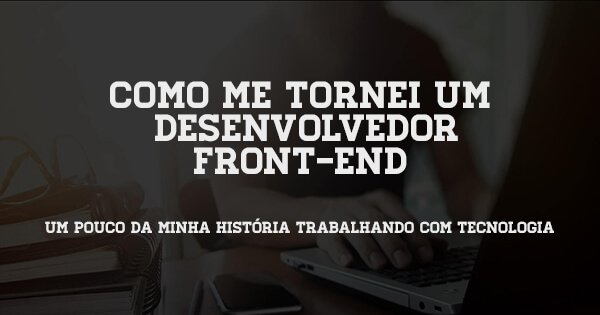
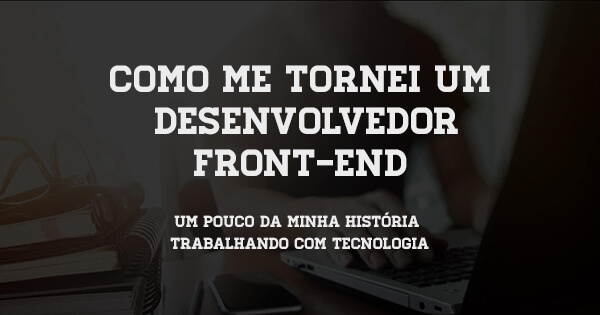
Atualizando a Imagem de Apresentação e o About

Changed region(s): [[0.18, 0.2, 0.84, 0.5714], [0.06, 0.6571, 0.93, 0.8]]

diff --git a/_site/about/index.html b/_site/about/index.html
@@ -1,1 +1,1 @@
-<!DOCTYPE html><html lang="pt-br" itemscope itemtype="http://schema.org/WebPage" > <head><meta charset="utf-8"><meta http-equiv="X-UA-Compatible" content="IE=edge"><meta name="viewport" content="width=device-width, initial-scale=1"><title>Sobre mim</title><meta name="description" content="Minha história como Desenvolvedor Front-end"> <meta name="google-site-verification" content="8kDtWUmUQEh7QXoj_shRaxcgYAVpHs_YQ7TeniN0kmI" /><link rel="author" href="https://plus.google.com/+MatheusBarone1?rel=author"><link rel="alternate" href="http://localhost:4000" hreflang="pt-br"/> <meta name="twitter:card" content="summary_large_image"><meta name="twitter:site" content="@matheusvbarone"><meta name="twitter:title" content="Sobre mim"><meta name="twitter:description" content="Minha história como Desenvolvedor Front-end"><meta property="twitter:image:src" content="http://localhost:4000/assets/dist/images/site-image.jpg"> <meta property="fb:app_id" content="2011413979095249" /><meta property="og:url" content="http://localhost:4000/about/"><meta property="og:title" content="Sobre mim"><meta property="og:image" content="http://localhost:4000/assets/dist/images/site-image.jpg"><meta property="og:description" content="Minha história como Desenvolvedor Front-end"><meta property="og:site_name" content="Matheus Barone | Desenvolvedor Front End"> <meta itemprop="name" content="Sobre mim"/><meta itemprop="description" content="Minha história como Desenvolvedor Front-end"><meta itemprop="image" content="http://localhost:4000/assets/dist/images/site-image.jpg"/><link rel="apple-touch-icon-precomposed" sizes="57x57" href="http://localhost:4000/assets/dist/images/icons/apple-touch-icon-57x57.png" /><link rel="apple-touch-icon-precomposed" sizes="114x114" href="http://localhost:4000/assets/dist/images/icons/apple-touch-icon-114x114.png" /><link rel="apple-touch-icon-precomposed" sizes="72x72" href="http://localhost:4000/assets/dist/images/icons/apple-touch-icon-72x72.png" /><link rel="apple-touch-icon-precomposed" sizes="144x144" href="http://localhost:4000/assets/dist/images/icons/apple-touch-icon-144x144.png" /><link rel="apple-touch-icon-precomposed" sizes="60x60" href="http://localhost:4000/assets/dist/images/icons/apple-touch-icon-60x60.png" /><link rel="apple-touch-icon-precomposed" sizes="120x120" href="http://localhost:4000/assets/dist/images/icons/apple-touch-icon-120x120.png" /><link rel="apple-touch-icon-precomposed" sizes="76x76" href="http://localhost:4000/assets/dist/images/icons/apple-touch-icon-76x76.png" /><link rel="apple-touch-icon-precomposed" sizes="152x152" href="http://localhost:4000/assets/dist/images/icons/apple-touch-icon-152x152.png" /><link rel="icon" type="image/png" href="http://localhost:4000/assets/dist/images/icons/favicon-196x196.png" sizes="196x196" /><link rel="icon" type="image/png" href="http://localhost:4000/assets/dist/images/icons/favicon-96x96.png" sizes="96x96" /><link rel="icon" type="image/png" href="http://localhost:4000/assets/dist/images/icons/favicon-32x32.png" sizes="32x32" /><link rel="icon" type="image/png" href="http://localhost:4000/assets/dist/images/icons/favicon-16x16.png" sizes="16x16" /><link rel="icon" type="image/png" href="http://localhost:4000/assets/dist/images/icons/favicon-128.png" sizes="128x128" /> <meta name="application-name" content="Matheus Barone | Desenvolvedor Front-End"/><meta name="msapplication-TileColor" content="#FFFFFF" /><meta name="msapplication-TileImage" content="http://localhost:4000/assets/dist/images/icons/mstile-144x144.png" /><meta name="msapplication-square70x70logo" content="http://localhost:4000/assets/dist/images/icons/mstile-70x70.png" /><meta name="msapplication-square150x150logo" content="http://localhost:4000/assets/dist/images/icons/mstile-150x150.png" /><meta name="msapplication-wide310x150logo" content="http://localhost:4000/assets/dist/images/icons/mstile-310x150.png" /><meta name="msapplication-square310x310logo" content="http://localhost:4000/assets/dist/images/icons/mstile-310x310.png" /> <meta name="theme-color" content="#cd2b46">  <script src="https://use.fontawesome.com/f46f00c11e.js"></script><link rel="stylesheet" href="/assets/dist/css/style.min.css"><link rel="canonical" href="http://localhost:4000/about/"><link rel="alternate" type="application/rss+xml" title="Matheus Barone | Desenvolvedor Front End" href="http://localhost:4000/feed.xml" />  <script> !function(f,b,e,v,n,t,s) {if(f.fbq)return;n=f.fbq=function(){n.callMethod? n.callMethod.apply(n,arguments):n.queue.push(arguments)}; if(!f._fbq)f._fbq=n;n.push=n;n.loaded=!0;n.version='2.0'; n.queue=[];t=b.createElement(e);t.async=!0; t.src=v;s=b.getElementsByTagName(e)[0]; s.parentNode.insertBefore(t,s)}(window, document,'script', 'https://connect.facebook.net/en_US/fbevents.js'); fbq('init', '190779964790158'); fbq('track', 'PageView'); </script> <noscript><img height="1" width="1" style="display:none" src="https://www.facebook.com/tr?id=190779964790158&ev=PageView&noscript=1" /></noscript> </head><body>   <script> window.fbAsyncInit = function () { FB.init({ appId: '2011413979095249', xfbml: true, version: 'v2.10' }); FB.AppEvents.logPageView(); }; (function (d, s, id) { var js, fjs = d.getElementsByTagName(s)[0]; if (d.getElementById(id)) { return; } js = d.createElement(s); js.id = id; js.src = "//connect.facebook.net/en_US/sdk.js"; fjs.parentNode.insertBefore(js, fjs); }(document, 'script', 'facebook-jssdk')); </script>   <script async src="https://www.googletagmanager.com/gtag/js?id=UA-78614910-2"></script> <script> window.dataLayer = window.dataLayer || []; function gtag(){dataLayer.push(arguments)}; gtag('js', new Date()); gtag('config', 'UA-78614910-2'); </script> <script> window.fbAsyncInit = function() { FB.init({ appId : '2011413979095249', xfbml : true, version : 'v2.10' }); FB.AppEvents.logPageView(); }; (function(d, s, id){ var js, fjs = d.getElementsByTagName(s)[0]; if (d.getElementById(id)) {return;} js = d.createElement(s); js.id = id; js.src = "//connect.facebook.net/en_US/sdk.js"; fjs.parentNode.insertBefore(js, fjs); }(document, 'script', 'facebook-jssdk')); </script>  <div id="top"></div><svg xmlns="http://www.w3.org/2000/svg" xmlns:xlink="http://www.w3.org/1999/xlink" display="none" version="1.1"> <defs> <symbol id="icon-code" viewBox="0 0 200 200"><path d="M116.3,30.2c-4.8,0.1-9,3.4-10.4,8L72.8,148.7c-1.8,5.9,1.6,12,7.4,13.8c5.9,1.8,12-1.6,13.8-7.4c0,0,0,0,0,0 l33.1-110.5c1.8-5.8-1.4-12-7.3-13.8C118.8,30.4,117.5,30.2,116.3,30.2z M56,44c-2.9,0-5.7,1.1-7.8,3.1L4,88.6 c-4.5,4.2-4.7,11.2-0.5,15.6c0.2,0.2,0.3,0.4,0.5,0.5l44.2,41.4c4.5,4.2,11.5,4,15.7-0.5c4.2-4.5,4-11.5-0.5-15.7L27.8,96.7 l35.6-33.4c4.5-4.1,4.9-11.1,0.8-15.6C62.1,45.4,59.1,44,56,44L56,44z M143.7,44c-6.1,0.2-10.9,5.3-10.7,11.4c0.1,3,1.4,5.9,3.6,7.9 l35.6,33.4L136.6,130c-4.5,4.2-4.7,11.2-0.5,15.7c4.2,4.5,11.2,4.7,15.7,0.5l44.2-41.4c4.5-4.2,4.7-11.2,0.5-15.6 c-0.2-0.2-0.3-0.4-0.5-0.5l-44.2-41.4C149.6,45,146.7,43.9,143.7,44L143.7,44z"/> </symbol> <symbol id="icon-uxui" viewBox="0 0 200 200"><path d="M172.6,53.41a5,5,0,0,0-1.45-3.53L150,28.73a5,5,0,0,0-7.06,0L2,169.69a5,5,0,0,0,0,7.06L23.12,197.9a5,5,0,0,0,7.06,0l141-141A5,5,0,0,0,172.6,53.41Zm-45.4,33.4L113.11,72.72l33.4-33.4,14.09,14.09Z" transform="translate(-0.5)"/><path d="M179.94,39.87a19.91,19.91,0,0,1,19.94-19.94A19.91,19.91,0,0,1,179.94,0,19.91,19.91,0,0,1,160,19.94,19.91,19.91,0,0,1,179.94,39.87Z" transform="translate(-0.5)"/><path d="M110.16,39.87A19.91,19.91,0,0,1,130.1,19.94,19.91,19.91,0,0,1,110.16,0,19.91,19.91,0,0,1,90.23,19.94,19.94,19.94,0,0,1,110.16,39.87Z" transform="translate(-0.5)"/><path d="M179.94,69.77A19.91,19.91,0,0,1,160,89.71a19.91,19.91,0,0,1,19.94,19.94,19.91,19.91,0,0,1,19.94-19.94A19.91,19.91,0,0,1,179.94,69.77Z" transform="translate(-0.5)"/> </symbol> <symbol id="icon-ideas" viewBox="0 0 200 200"><path d="M153.14,61.72c-.27-.47-.56-.89-1.13-1.72A63.43,63.43,0,0,0,100.4,32.91a62.28,62.28,0,0,0-34.49,11c-1,.64-2,1.36-3.37,2.42-1,.76-2,1.6-2.91,2.39l-.57.48a36.18,36.18,0,0,0-3.35,3.28,46,46,0,0,0-3.61,4.09c-.35.42-.7.85-1.18,1.48s-.74,1.05-1,1.36a5.94,5.94,0,0,0-.71,1,13.28,13.28,0,0,0-.87,1.3c-6.75,10.28-10.1,21.07-9.95,32a53.65,53.65,0,0,0,6.05,25c.11.26.23.53.47,1a82.72,82.72,0,0,0,5.67,9.7l.9,1.28c2.2,3.25,4.34,6.43,6.17,9.47.47,1.16,1,2.27,1.48,3.41a48.49,48.49,0,0,1,2.42,6.3,31.76,31.76,0,0,1,1.18,7.76l-.41,7.05,78.69-.3-1.81-7.15a16,16,0,0,1,.3-4,37.66,37.66,0,0,1,1.62-6.5c.36-1.09.78-2.16,1-2.73l.4-.64a14.56,14.56,0,0,0,1.54-3.35c1.79-3.08,3.79-6.1,6-9.45l1.08-1.63a86.48,86.48,0,0,0,6.1-10.79A53.7,53.7,0,0,0,163,92.93V92.1A55.84,55.84,0,0,0,153.14,61.72ZM58,67.39l.42-.6.25-.41c.5-.64,1-1.3,1.3-1.79l1.24-1.52a34.66,34.66,0,0,1,2.63-2.95,29,29,0,0,1,2.52-2.46l.6-.51c.75-.65,1.51-1.31,2.81-2.29.73-.55,1.45-1.1,2.34-1.67a51.19,51.19,0,0,1,28.36-9.11c16.57-.06,32.8,8.48,42.72,22.78l.49.76c5.25,7.86,8,16.15,8.14,24.61v.89a43,43,0,0,1-4.59,20.16,76.2,76.2,0,0,1-5.35,9.46l-1.05,1.59c-2.44,3.65-4.62,6.94-6.77,10.74l-.41,1.11a9.79,9.79,0,0,1-.77,1.58,7,7,0,0,0-.82,1.49c-.52,1.27-1,2.6-1.47,3.9a48.29,48.29,0,0,0-2.07,8.39c-.09.58-.17,1.14-.24,1.7l-54.58.21a43,43,0,0,0-1.31-6.61,58.81,58.81,0,0,0-3-7.82c-.48-1.06-1-2.13-1.41-3.26L67.6,135c-2.18-3.71-4.47-7.13-6.89-10.7l-.9-1.26a73.05,73.05,0,0,1-5.1-8.82l-.39-.85A42.39,42.39,0,0,1,49.6,93.68C49.47,84.9,52.27,76.08,58,67.39Zm-6,47.14Z" transform="translate(-10.07 0)"/><path d="M124.45,93.52,95.79,140.93a.67.67,0,0,1-1.24-.44L99.1,109a.68.68,0,0,0-.66-.8l-20.84.08a.67.67,0,0,1-.58-1l28.66-47.41a.67.67,0,0,1,1.24.44l-4.56,31.53a.65.65,0,0,0,.66.77l20.84-.08A.7.7,0,0,1,124.45,93.52Z" transform="translate(-10.07 0)"/><path d="M61.26,175v0a27.3,27.3,0,0,0,0,5.32c1.18,7.76,9.44,8.18,12.13,8.35,1.38,0,2.76.09,4.15.09,3.76,0,4.53.37,5.84,2.46,3.28,5.2,10.28,8.39,18.34,8.36,7.76,0,14.19-3,17.44-8,1.6-2.49,2.6-3,6.48-3h1.84c3,0,9,0,12.35-4.14,2.79-3.44,2-7.18,1.3-9.79Z" transform="translate(-10.07 0)"/><path d="M30.87,72.09A10.59,10.59,0,0,1,20.75,79.6a10.31,10.31,0,0,1-3.17-.48,10.64,10.64,0,1,1,13.29-7Z" transform="translate(-10.07 0)"/><path d="M57.32,35.28A10.46,10.46,0,0,1,51,37.39a10.65,10.65,0,0,1-6.39-19.21,10.43,10.43,0,0,1,6.15-2,10.82,10.82,0,0,1,8.74,4.18A10.65,10.65,0,0,1,57.32,35.28Z" transform="translate(-10.07 0)"/><path d="M111,10.6a10.64,10.64,0,1,1-21.28.11A10.6,10.6,0,0,1,100.32,0,10.67,10.67,0,0,1,111,10.6Z" transform="translate(-10.07 0)"/><path d="M158.32,33.15a10.66,10.66,0,0,1-8.57,4.41,10.66,10.66,0,0,1-8.65-16.9,10.81,10.81,0,0,1,8.74-4.27A10.17,10.17,0,0,1,156,18.3a10.66,10.66,0,0,1,2.36,14.85Z" transform="translate(-10.07 0)"/><path d="M183.09,79.33a10.65,10.65,0,0,1-13.38-6.9,10.64,10.64,0,1,1,13.38,6.9Z" transform="translate(-10.07 0)"/> </symbol> </defs> </svg><header class="mast-header "><div class="container"> <nav class="level is-mobile"> <div class="level-left"> <a href="http://localhost:4000/" class="level-item" title="© 2017 Matheus Barone - Desenvolvedor Front-end | Todos os Direitos Reservados"> <svg id="logo-simple" class="logo-simple" data-name="logo-simple" xmlns="http://www.w3.org/2000/svg" width="35" height="35" viewBox="0 0 153.91 153.91"> <rect class="logo-simple-1" x="1" y="1" width="151.91" height="151.91" rx="4.23" ry="4.23"/> <g><polygon class="logo-simple-2" points="83.29 56.08 76.89 56.08 76.89 97.83 83.29 97.83 83.84 97.83 90.24 97.83 90.24 56.08 83.84 56.08 83.29 56.08"/><path class="logo-simple-2" d="M157.29,232.19a6.26,6.26,0,0,0-4.42-10.69H139V234h13.92A6,6,0,0,0,157.29,232.19Z" transform="translate(-34.8 -165.42)"/><path class="logo-simple-2" d="M152.87,247.94H139v15.31h13.92a7.65,7.65,0,1,0,0-15.31Z" transform="translate(-34.8 -165.42)"/><path class="logo-simple-3" d="M172.85,247.39a20.55,20.55,0,0,0-4.47-6.71,21.41,21.41,0,0,0,3.43-6,20.14,20.14,0,0,0-.35-14.81,20.26,20.26,0,0,0-10.73-10.74,19.59,19.59,0,0,0-7.85-1.59H97.57L83.85,229.35,70.13,207.58H49.06V221.5h7v41.75h-7v13.92H76.89V263.25h-7V233.43l13.92,22,13.92-22v29.82h-7v13.92h62.06a21,21,0,0,0,8.4-1.69A21.63,21.63,0,0,0,172.75,264a21.83,21.83,0,0,0,.1-16.6ZM139,221.5h13.92a6.26,6.26,0,0,1,0,12.52H139ZM125,263.25H111.68V221.5H125ZM158.29,261a7.38,7.38,0,0,1-5.42,2.24H139V247.94h13.92A7.66,7.66,0,0,1,158.29,261Z" transform="translate(-34.8 -165.42)"/> </g> </svg> </a></div><nav class="menu"><ul class="level-right"><li class="level-item menu-item"><a href="http://localhost:4000" class="menu-link" title="Home">Home</a></li><li class="level-item menu-item"><a href="http://localhost:4000/about" class="menu-link" title="Sobre mim">Sobre mim</a></li><li class="level-item menu-item"><a href="http://localhost:4000/#contact" class="menu-link" title="Contato">Contato</a></li><li class="level-item menu-item"><a href="http://localhost:4000/blog" class="button is-primary menu-link" title="Blog">Blog</a></li></ul></nav></nav></div></header>  <section class="hero hero-default has-header" ><div class="panel hero-default-body hero-body" data-section-name="home"><h1 class="title" itemprop="name">Sobre mim</h1><p itemprop="description" class="subtitle">Minha história como Desenvolvedor Front-end</p></div></section>  <div class="offset default-offset is-about"> <div class="container p-t-30 main-container"> <nav class="breadcrumb is-small is-about" aria-label="breadcrumbs"><ul><li><a href="/"><span class="icon is-small"><i class="fa fa-home"></i></span><span>Home</span></a></li><li class="is-active"><a href="#" aria-current="page"><span class="icon is-small"><i class="fa fa-user" aria-hidden="true"></i></span><span>Sobre mim</span></a></li></ul></nav> <div class="content about"> <p class="p-t-20">Meu nome é Matheus Barone, sou de Santos/SP e trabalho como desenvolvedor Front-end na <a href="http://www.uol.com.br" title="UOL">UOL</a>.</p><p>Em 2013 me formei em <a href="http://cursos.unisanta.br/producaomultimidia/" title="Produção Multimídia">Produção Multimídia</a> pela <a href="http://www.unisanta.br/" title="Universidade Santa Cecília">Universidade Santa Cecília</a>. Esse curso abordava, além de web, design gráfico e fotografia. Isso me deu uma visão ampla da área, e logo no primeiro semestre já havia conseguido um estágio.</p><p>Desde então tenho na bagagem a passagem por agências digitais, agência de publicidade, além de morar um ano nos Estados Unidos.</p><p>Com uma rotina de estudos diária, busco sempre aperfeiçoar e expandir meu conhecimento. Meu foco principal é o cliente, dou o meu máximo para solucionar os problemas apresentados de forma rápida e eficaz.</p><p>Gosto de trabalhar em equipe, compartilhar conhecimento e ensinar as pessoas. Se precisar, é só <a href="http://localhost:4000/#contact" title="Contato">me contatar</a>. Ficarei feliz em ajudar!</p><h2 class="wow slideInUp animated has-text-centered has-text-left-tablet" data-wow-duration="0.4s" data-wow-delay="0.2s">Habilidades</h2><ul class="wow slideInUp animated" data-wow-duration="0.4s" data-wow-delay="0.2s"><li><h3>HTML</h3></li><li><h3>CSS (SASS)</h3></li><li><h3>CSS Frameworks (Bulma, Bootstrap)</h3></li><li><h3>Javascript (Design Patterns)</h3></li><li><h3>Jquery</h3></li><li><h3>Git</h3></li><li><h3>Jekyll</h3></li><li><h3>Taskrunners (Gulp, Npm)</h3></li><li><h3>NodeJS</h3></li><li><h3>Photoshop</h3></li><li><h3>Illustrator</h3></li><li><h3>Scrum</h3></li><li><h3>UX/UI</h3></li><li><h3>Wordpress</h3></li><li><h3>Inglês Fluente</h3></li></ul><h2 class="wow slideInUp animated has-text-centered has-text-left-tablet" data-wow-duration="0.4s" data-wow-delay="0.2s">Experiência</h2><ul class="wow slideInUp animated" data-wow-duration="0.4s" data-wow-delay="0.2s"><li><h3>UOL - Universo Online</h3><h4>Desenvolvedor Front-end</h4><p>Agosto 2017 - Atual</p></li><li><h3>KBR TEC - Soluções On-Line Ltda</h3><h4>Desenvolvedor Front-end</h4><p>Março 2015 - Abril 2016 / Abril 2017 - Agosto 2017</p></li><li><h3>DSPA - ideias, Planejamento e Design</h3><h4>Desenvolvedor Front-end</h4><p>Janeiro 2014 - Fevereiro 2015</p></li><li><h3>Triares - Desenvolvedor Front-end</h3><h4>Estágio</h4><p>Abril 2012 - Junho 2013</p></li></ul><h2 class="wow slideInUp animated has-text-centered has-text-left-tablet" data-wow-duration="0.4s" data-wow-delay="0.2s">Formação</h2><ul class="wow slideInUp animated" data-wow-duration="0.4s" data-wow-delay="0.2s"><li><h3>Produção Multímidia</h3><h4>Universidade Santa Cecília</h4><p>Janeiro 2012 - Dezembro 2013</p></li><li><h3>Web Apps Responsivas com JavaScript e jQuery</h3><h4>Caelum</h4><p>Setembro 2017 (32 horas/aula)</p></li><li><h3>Front End Development</h3><h4>FreeCodeCamp</h4><p>Agosto 2017</p></li></ul><h2 class="wow slideInUp animated has-text-centered has-text-left-tablet" data-wow-duration="0.4s" data-wow-delay="0.2s">Contato</h2><ul class="wow slideInUp animated" data-wow-duration="0.4s" data-wow-delay="0.2s"><li><h3><a href="https://www.facebook.com/matheusvbarone" title="Facebook">Facebook</a></h3></li><li><h3><a href="https://github.com/mathvbarone" title="Github">Github</a></h3></li><li><h3><a href="https://www.linkedin.com/in/matheusbarone/" title="Linkedin">Linkedin</a></h3></li><li><h3><a href="https://twitter.com/matheusvbarone" title="Twitter">Twitter</a></h3></li><li><h3><a href="mailto:matheusvbarone@gmail.com" title="Email">Email</a></h3></li></ul></div></div><footer class="footer"><div class="container"><div class="content has-text-centered"> <span class="footer-infos"> © 2017 Matheus Barone | Desenvolvedor Front-end<br> <span>Feito por mim (com a ajuda de algumas xícaras de café).</span> </span> <a class="footer-phone" href="tel:+5513981252789"><i class="fa-lg fa fa-mobile" aria-hidden="true"></i>(13) 98125-2789</a><ul class="redes"><li class="redes-item"> <a class="redes-link" href="https://www.facebook.com/matheusvbarone" target="_blank" title="Facebook"> <i class="fa fa-facebook" aria-hidden="true"></i> </a></li><li class="redes-item"> <a class="redes-link" href="https://github.com/mathvbarone" target="_blank" title="Github"> <i class="fa fa-github" aria-hidden="true"></i> </a></li><li class="redes-item"> <a class="redes-link" href="https://twitter.com/matheusvbarone" target="_blank" title="Twitter"> <i class="fa fa-twitter" aria-hidden="true"></i> </a></li><li class="redes-item"> <a class="redes-link" href="https://www.linkedin.com/in/matheusbarone/" target="_blank" title="Linkedin"> <i class="fa fa-linkedin" aria-hidden="true"></i> </a></li></ul></div></div></footer><script src="https://cdnjs.cloudflare.com/ajax/libs/wow/1.1.2/wow.min.js"></script> <script src="/assets/dist/js/main.min.js"></script> </div>  <a href="#top" class="up-arrow"> <i class="fa fa-chevron-up" aria-hidden="true"></i> </a> </body>
+<!DOCTYPE html><html lang="pt-br" itemscope itemtype="http://schema.org/WebPage" > <head><meta charset="utf-8"><meta http-equiv="X-UA-Compatible" content="IE=edge"><meta name="viewport" content="width=device-width, initial-scale=1"><title>Sobre mim</title><meta name="description" content="Minha história como Desenvolvedor Front-end"> <meta name="google-site-verification" content="8kDtWUmUQEh7QXoj_shRaxcgYAVpHs_YQ7TeniN0kmI" /><link rel="author" href="https://plus.google.com/+MatheusBarone1?rel=author"><link rel="alternate" href="http://localhost:4000" hreflang="pt-br"/> <meta name="twitter:card" content="summary_large_image"><meta name="twitter:site" content="@matheusvbarone"><meta name="twitter:title" content="Sobre mim"><meta name="twitter:description" content="Minha história como Desenvolvedor Front-end"><meta property="twitter:image:src" content="http://localhost:4000/assets/dist/images/site-image.jpg"> <meta property="fb:app_id" content="2011413979095249" /><meta property="og:url" content="http://localhost:4000/about/"><meta property="og:title" content="Sobre mim"><meta property="og:image" content="http://localhost:4000/assets/dist/images/site-image.jpg"><meta property="og:description" content="Minha história como Desenvolvedor Front-end"><meta property="og:site_name" content="Matheus Barone | Desenvolvedor Front End"> <meta itemprop="name" content="Sobre mim"/><meta itemprop="description" content="Minha história como Desenvolvedor Front-end"><meta itemprop="image" content="http://localhost:4000/assets/dist/images/site-image.jpg"/><link rel="apple-touch-icon-precomposed" sizes="57x57" href="http://localhost:4000/assets/dist/images/icons/apple-touch-icon-57x57.png" /><link rel="apple-touch-icon-precomposed" sizes="114x114" href="http://localhost:4000/assets/dist/images/icons/apple-touch-icon-114x114.png" /><link rel="apple-touch-icon-precomposed" sizes="72x72" href="http://localhost:4000/assets/dist/images/icons/apple-touch-icon-72x72.png" /><link rel="apple-touch-icon-precomposed" sizes="144x144" href="http://localhost:4000/assets/dist/images/icons/apple-touch-icon-144x144.png" /><link rel="apple-touch-icon-precomposed" sizes="60x60" href="http://localhost:4000/assets/dist/images/icons/apple-touch-icon-60x60.png" /><link rel="apple-touch-icon-precomposed" sizes="120x120" href="http://localhost:4000/assets/dist/images/icons/apple-touch-icon-120x120.png" /><link rel="apple-touch-icon-precomposed" sizes="76x76" href="http://localhost:4000/assets/dist/images/icons/apple-touch-icon-76x76.png" /><link rel="apple-touch-icon-precomposed" sizes="152x152" href="http://localhost:4000/assets/dist/images/icons/apple-touch-icon-152x152.png" /><link rel="icon" type="image/png" href="http://localhost:4000/assets/dist/images/icons/favicon-196x196.png" sizes="196x196" /><link rel="icon" type="image/png" href="http://localhost:4000/assets/dist/images/icons/favicon-96x96.png" sizes="96x96" /><link rel="icon" type="image/png" href="http://localhost:4000/assets/dist/images/icons/favicon-32x32.png" sizes="32x32" /><link rel="icon" type="image/png" href="http://localhost:4000/assets/dist/images/icons/favicon-16x16.png" sizes="16x16" /><link rel="icon" type="image/png" href="http://localhost:4000/assets/dist/images/icons/favicon-128.png" sizes="128x128" /> <meta name="application-name" content="Matheus Barone | Desenvolvedor Front-End"/><meta name="msapplication-TileColor" content="#FFFFFF" /><meta name="msapplication-TileImage" content="http://localhost:4000/assets/dist/images/icons/mstile-144x144.png" /><meta name="msapplication-square70x70logo" content="http://localhost:4000/assets/dist/images/icons/mstile-70x70.png" /><meta name="msapplication-square150x150logo" content="http://localhost:4000/assets/dist/images/icons/mstile-150x150.png" /><meta name="msapplication-wide310x150logo" content="http://localhost:4000/assets/dist/images/icons/mstile-310x150.png" /><meta name="msapplication-square310x310logo" content="http://localhost:4000/assets/dist/images/icons/mstile-310x310.png" /> <meta name="theme-color" content="#cd2b46">  <script src="https://use.fontawesome.com/f46f00c11e.js"></script><link rel="stylesheet" href="/assets/dist/css/style.min.css"><link rel="canonical" href="http://localhost:4000/about/"><link rel="alternate" type="application/rss+xml" title="Matheus Barone | Desenvolvedor Front End" href="http://localhost:4000/feed.xml" />  <script> !function(f,b,e,v,n,t,s) {if(f.fbq)return;n=f.fbq=function(){n.callMethod? n.callMethod.apply(n,arguments):n.queue.push(arguments)}; if(!f._fbq)f._fbq=n;n.push=n;n.loaded=!0;n.version='2.0'; n.queue=[];t=b.createElement(e);t.async=!0; t.src=v;s=b.getElementsByTagName(e)[0]; s.parentNode.insertBefore(t,s)}(window, document,'script', 'https://connect.facebook.net/en_US/fbevents.js'); fbq('init', '190779964790158'); fbq('track', 'PageView'); </script> <noscript><img height="1" width="1" style="display:none" src="https://www.facebook.com/tr?id=190779964790158&ev=PageView&noscript=1" /></noscript> </head><body>   <script> window.fbAsyncInit = function () { FB.init({ appId: '2011413979095249', xfbml: true, version: 'v2.10' }); FB.AppEvents.logPageView(); }; (function (d, s, id) { var js, fjs = d.getElementsByTagName(s)[0]; if (d.getElementById(id)) { return; } js = d.createElement(s); js.id = id; js.src = "//connect.facebook.net/en_US/sdk.js"; fjs.parentNode.insertBefore(js, fjs); }(document, 'script', 'facebook-jssdk')); </script>   <script async src="https://www.googletagmanager.com/gtag/js?id=UA-78614910-2"></script> <script> window.dataLayer = window.dataLayer || []; function gtag(){dataLayer.push(arguments)}; gtag('js', new Date()); gtag('config', 'UA-78614910-2'); </script> <script> window.fbAsyncInit = function() { FB.init({ appId : '2011413979095249', xfbml : true, version : 'v2.10' }); FB.AppEvents.logPageView(); }; (function(d, s, id){ var js, fjs = d.getElementsByTagName(s)[0]; if (d.getElementById(id)) {return;} js = d.createElement(s); js.id = id; js.src = "//connect.facebook.net/en_US/sdk.js"; fjs.parentNode.insertBefore(js, fjs); }(document, 'script', 'facebook-jssdk')); </script>  <div id="top"></div><svg xmlns="http://www.w3.org/2000/svg" xmlns:xlink="http://www.w3.org/1999/xlink" display="none" version="1.1"> <defs> <symbol id="icon-code" viewBox="0 0 200 200"><path d="M116.3,30.2c-4.8,0.1-9,3.4-10.4,8L72.8,148.7c-1.8,5.9,1.6,12,7.4,13.8c5.9,1.8,12-1.6,13.8-7.4c0,0,0,0,0,0 l33.1-110.5c1.8-5.8-1.4-12-7.3-13.8C118.8,30.4,117.5,30.2,116.3,30.2z M56,44c-2.9,0-5.7,1.1-7.8,3.1L4,88.6 c-4.5,4.2-4.7,11.2-0.5,15.6c0.2,0.2,0.3,0.4,0.5,0.5l44.2,41.4c4.5,4.2,11.5,4,15.7-0.5c4.2-4.5,4-11.5-0.5-15.7L27.8,96.7 l35.6-33.4c4.5-4.1,4.9-11.1,0.8-15.6C62.1,45.4,59.1,44,56,44L56,44z M143.7,44c-6.1,0.2-10.9,5.3-10.7,11.4c0.1,3,1.4,5.9,3.6,7.9 l35.6,33.4L136.6,130c-4.5,4.2-4.7,11.2-0.5,15.7c4.2,4.5,11.2,4.7,15.7,0.5l44.2-41.4c4.5-4.2,4.7-11.2,0.5-15.6 c-0.2-0.2-0.3-0.4-0.5-0.5l-44.2-41.4C149.6,45,146.7,43.9,143.7,44L143.7,44z"/> </symbol> <symbol id="icon-uxui" viewBox="0 0 200 200"><path d="M172.6,53.41a5,5,0,0,0-1.45-3.53L150,28.73a5,5,0,0,0-7.06,0L2,169.69a5,5,0,0,0,0,7.06L23.12,197.9a5,5,0,0,0,7.06,0l141-141A5,5,0,0,0,172.6,53.41Zm-45.4,33.4L113.11,72.72l33.4-33.4,14.09,14.09Z" transform="translate(-0.5)"/><path d="M179.94,39.87a19.91,19.91,0,0,1,19.94-19.94A19.91,19.91,0,0,1,179.94,0,19.91,19.91,0,0,1,160,19.94,19.91,19.91,0,0,1,179.94,39.87Z" transform="translate(-0.5)"/><path d="M110.16,39.87A19.91,19.91,0,0,1,130.1,19.94,19.91,19.91,0,0,1,110.16,0,19.91,19.91,0,0,1,90.23,19.94,19.94,19.94,0,0,1,110.16,39.87Z" transform="translate(-0.5)"/><path d="M179.94,69.77A19.91,19.91,0,0,1,160,89.71a19.91,19.91,0,0,1,19.94,19.94,19.91,19.91,0,0,1,19.94-19.94A19.91,19.91,0,0,1,179.94,69.77Z" transform="translate(-0.5)"/> </symbol> <symbol id="icon-ideas" viewBox="0 0 200 200"><path d="M153.14,61.72c-.27-.47-.56-.89-1.13-1.72A63.43,63.43,0,0,0,100.4,32.91a62.28,62.28,0,0,0-34.49,11c-1,.64-2,1.36-3.37,2.42-1,.76-2,1.6-2.91,2.39l-.57.48a36.18,36.18,0,0,0-3.35,3.28,46,46,0,0,0-3.61,4.09c-.35.42-.7.85-1.18,1.48s-.74,1.05-1,1.36a5.94,5.94,0,0,0-.71,1,13.28,13.28,0,0,0-.87,1.3c-6.75,10.28-10.1,21.07-9.95,32a53.65,53.65,0,0,0,6.05,25c.11.26.23.53.47,1a82.72,82.72,0,0,0,5.67,9.7l.9,1.28c2.2,3.25,4.34,6.43,6.17,9.47.47,1.16,1,2.27,1.48,3.41a48.49,48.49,0,0,1,2.42,6.3,31.76,31.76,0,0,1,1.18,7.76l-.41,7.05,78.69-.3-1.81-7.15a16,16,0,0,1,.3-4,37.66,37.66,0,0,1,1.62-6.5c.36-1.09.78-2.16,1-2.73l.4-.64a14.56,14.56,0,0,0,1.54-3.35c1.79-3.08,3.79-6.1,6-9.45l1.08-1.63a86.48,86.48,0,0,0,6.1-10.79A53.7,53.7,0,0,0,163,92.93V92.1A55.84,55.84,0,0,0,153.14,61.72ZM58,67.39l.42-.6.25-.41c.5-.64,1-1.3,1.3-1.79l1.24-1.52a34.66,34.66,0,0,1,2.63-2.95,29,29,0,0,1,2.52-2.46l.6-.51c.75-.65,1.51-1.31,2.81-2.29.73-.55,1.45-1.1,2.34-1.67a51.19,51.19,0,0,1,28.36-9.11c16.57-.06,32.8,8.48,42.72,22.78l.49.76c5.25,7.86,8,16.15,8.14,24.61v.89a43,43,0,0,1-4.59,20.16,76.2,76.2,0,0,1-5.35,9.46l-1.05,1.59c-2.44,3.65-4.62,6.94-6.77,10.74l-.41,1.11a9.79,9.79,0,0,1-.77,1.58,7,7,0,0,0-.82,1.49c-.52,1.27-1,2.6-1.47,3.9a48.29,48.29,0,0,0-2.07,8.39c-.09.58-.17,1.14-.24,1.7l-54.58.21a43,43,0,0,0-1.31-6.61,58.81,58.81,0,0,0-3-7.82c-.48-1.06-1-2.13-1.41-3.26L67.6,135c-2.18-3.71-4.47-7.13-6.89-10.7l-.9-1.26a73.05,73.05,0,0,1-5.1-8.82l-.39-.85A42.39,42.39,0,0,1,49.6,93.68C49.47,84.9,52.27,76.08,58,67.39Zm-6,47.14Z" transform="translate(-10.07 0)"/><path d="M124.45,93.52,95.79,140.93a.67.67,0,0,1-1.24-.44L99.1,109a.68.68,0,0,0-.66-.8l-20.84.08a.67.67,0,0,1-.58-1l28.66-47.41a.67.67,0,0,1,1.24.44l-4.56,31.53a.65.65,0,0,0,.66.77l20.84-.08A.7.7,0,0,1,124.45,93.52Z" transform="translate(-10.07 0)"/><path d="M61.26,175v0a27.3,27.3,0,0,0,0,5.32c1.18,7.76,9.44,8.18,12.13,8.35,1.38,0,2.76.09,4.15.09,3.76,0,4.53.37,5.84,2.46,3.28,5.2,10.28,8.39,18.34,8.36,7.76,0,14.19-3,17.44-8,1.6-2.49,2.6-3,6.48-3h1.84c3,0,9,0,12.35-4.14,2.79-3.44,2-7.18,1.3-9.79Z" transform="translate(-10.07 0)"/><path d="M30.87,72.09A10.59,10.59,0,0,1,20.75,79.6a10.31,10.31,0,0,1-3.17-.48,10.64,10.64,0,1,1,13.29-7Z" transform="translate(-10.07 0)"/><path d="M57.32,35.28A10.46,10.46,0,0,1,51,37.39a10.65,10.65,0,0,1-6.39-19.21,10.43,10.43,0,0,1,6.15-2,10.82,10.82,0,0,1,8.74,4.18A10.65,10.65,0,0,1,57.32,35.28Z" transform="translate(-10.07 0)"/><path d="M111,10.6a10.64,10.64,0,1,1-21.28.11A10.6,10.6,0,0,1,100.32,0,10.67,10.67,0,0,1,111,10.6Z" transform="translate(-10.07 0)"/><path d="M158.32,33.15a10.66,10.66,0,0,1-8.57,4.41,10.66,10.66,0,0,1-8.65-16.9,10.81,10.81,0,0,1,8.74-4.27A10.17,10.17,0,0,1,156,18.3a10.66,10.66,0,0,1,2.36,14.85Z" transform="translate(-10.07 0)"/><path d="M183.09,79.33a10.65,10.65,0,0,1-13.38-6.9,10.64,10.64,0,1,1,13.38,6.9Z" transform="translate(-10.07 0)"/> </symbol> </defs> </svg><header class="mast-header "><div class="container"> <nav class="level is-mobile"> <div class="level-left"> <a href="http://localhost:4000/" class="level-item" title="© 2017 Matheus Barone - Desenvolvedor Front-end | Todos os Direitos Reservados"> <svg id="logo-simple" class="logo-simple" data-name="logo-simple" xmlns="http://www.w3.org/2000/svg" width="35" height="35" viewBox="0 0 153.91 153.91"> <rect class="logo-simple-1" x="1" y="1" width="151.91" height="151.91" rx="4.23" ry="4.23"/> <g><polygon class="logo-simple-2" points="83.29 56.08 76.89 56.08 76.89 97.83 83.29 97.83 83.84 97.83 90.24 97.83 90.24 56.08 83.84 56.08 83.29 56.08"/><path class="logo-simple-2" d="M157.29,232.19a6.26,6.26,0,0,0-4.42-10.69H139V234h13.92A6,6,0,0,0,157.29,232.19Z" transform="translate(-34.8 -165.42)"/><path class="logo-simple-2" d="M152.87,247.94H139v15.31h13.92a7.65,7.65,0,1,0,0-15.31Z" transform="translate(-34.8 -165.42)"/><path class="logo-simple-3" d="M172.85,247.39a20.55,20.55,0,0,0-4.47-6.71,21.41,21.41,0,0,0,3.43-6,20.14,20.14,0,0,0-.35-14.81,20.26,20.26,0,0,0-10.73-10.74,19.59,19.59,0,0,0-7.85-1.59H97.57L83.85,229.35,70.13,207.58H49.06V221.5h7v41.75h-7v13.92H76.89V263.25h-7V233.43l13.92,22,13.92-22v29.82h-7v13.92h62.06a21,21,0,0,0,8.4-1.69A21.63,21.63,0,0,0,172.75,264a21.83,21.83,0,0,0,.1-16.6ZM139,221.5h13.92a6.26,6.26,0,0,1,0,12.52H139ZM125,263.25H111.68V221.5H125ZM158.29,261a7.38,7.38,0,0,1-5.42,2.24H139V247.94h13.92A7.66,7.66,0,0,1,158.29,261Z" transform="translate(-34.8 -165.42)"/> </g> </svg> </a></div><nav class="menu"><ul class="level-right"><li class="level-item menu-item"><a href="http://localhost:4000" class="menu-link" title="Home">Home</a></li><li class="level-item menu-item"><a href="http://localhost:4000/about" class="menu-link" title="Sobre mim">Sobre mim</a></li><li class="level-item menu-item"><a href="http://localhost:4000/#contact" class="menu-link" title="Contato">Contato</a></li><li class="level-item menu-item"><a href="http://localhost:4000/blog" class="button is-primary menu-link" title="Blog">Blog</a></li></ul></nav></nav></div></header>  <section class="hero hero-default has-header" ><div class="panel hero-default-body hero-body" data-section-name="home"><h1 class="title" itemprop="name">Sobre mim</h1><p itemprop="description" class="subtitle">Minha história como Desenvolvedor Front-end</p></div></section>  <div class="offset default-offset is-about"> <div class="container p-t-30 main-container"> <nav class="breadcrumb is-small is-about" aria-label="breadcrumbs"><ul><li><a href="/"><span class="icon is-small"><i class="fa fa-home"></i></span><span>Home</span></a></li><li class="is-active"><a href="#" aria-current="page"><span class="icon is-small"><i class="fa fa-user" aria-hidden="true"></i></span><span>Sobre mim</span></a></li></ul></nav> <div class="content about"> <p class="p-t-20">Meu nome é Matheus Barone, sou de Santos/SP e trabalho como desenvolvedor Front-end na <a href="http://www.uol.com.br" title="UOL">UOL</a>.</p><p>Em 2013 me formei em <a href="http://cursos.unisanta.br/producaomultimidia/" title="Produção Multimídia">Produção Multimídia</a> pela <a href="http://www.unisanta.br/" title="Universidade Santa Cecília">Universidade Santa Cecília</a>. Esse curso abordava, além de web, design gráfico e fotografia. Isso me deu uma visão ampla da área, e logo no primeiro semestre já havia conseguido um estágio.</p><p>Desde então tenho na bagagem a passagem por agências digitais, agência de publicidade, além de morar um ano nos Estados Unidos.</p><p>Com uma rotina de estudos diária, busco sempre aperfeiçoar e expandir meu conhecimento. Meu foco principal é o cliente, dou o meu máximo para solucionar os problemas apresentados de forma rápida e eficaz.</p><p>Gosto de trabalhar em equipe, compartilhar conhecimento e ensinar as pessoas. Se precisar, é só <a href="http://localhost:4000/#contact" title="Contato">me contatar</a>. Ficarei feliz em ajudar!</p><h2 class="wow slideInUp animated has-text-centered has-text-left-tablet" data-wow-duration="0.4s" data-wow-delay="0.2s">Habilidades</h2><ul class="wow slideInUp animated" data-wow-duration="0.4s" data-wow-delay="0.2s"><li><h3>HTML</h3></li><li><h3>CSS (SASS)</h3></li><li><h3>CSS Frameworks (Bulma, Bootstrap)</h3></li><li><h3>Javascript (Design Patterns)</h3></li><li><h3>Jquery</h3></li><li><h3>Git</h3></li><li><h3>Jekyll</h3></li><li><h3>Taskrunners (Gulp, Npm)</h3></li><li><h3>NodeJS</h3></li><li><h3>Photoshop</h3></li><li><h3>Illustrator</h3></li><li><h3>Scrum</h3></li><li><h3>UX/UI</h3></li><li><h3>Wordpress</h3></li><li><h3>Inglês Fluente</h3></li></ul><h2 class="wow slideInUp animated has-text-centered has-text-left-tablet" data-wow-duration="0.4s" data-wow-delay="0.2s">Experiência</h2><ul class="wow slideInUp animated" data-wow-duration="0.4s" data-wow-delay="0.2s"><li><h3>UOL - Universo Online</h3><h4>Desenvolvedor Front-end</h4><p>Agosto 2017 - Atual</p></li><li><h3>KBR TEC - Soluções On-Line Ltda</h3><h4>Desenvolvedor Front-end</h4><p>Março 2015 - Abril 2016 / Abril 2017 - Agosto 2017</p></li><li><h3>DSPA - ideias, Planejamento e Design</h3><h4>Desenvolvedor Front-end</h4><p>Janeiro 2014 - Fevereiro 2015</p></li><li><h3>Triares - Desenvolvedor Front-end</h3><h4>Estágio</h4><p>Abril 2012 - Junho 2013</p></li></ul><h2 class="wow slideInUp animated has-text-centered has-text-left-tablet" data-wow-duration="0.4s" data-wow-delay="0.2s">Formação</h2><ul class="wow slideInUp animated" data-wow-duration="0.4s" data-wow-delay="0.2s"><li><h3>Produção Multímidia</h3><h4>Universidade Santa Cecília</h4><p>Janeiro 2012 - Dezembro 2013</p></li><li><h3>Web Apps Responsivas com JavaScript e jQuery</h3><h4>Caelum</h4><p>Setembro 2017 (32 horas/aula)</p></li><li><h3>Criando sites estáticos com Jekyll</h3><h4>Udemy - Willian Justen</h4><p>Setembro 2017</p></li><li><h3>Modern React with Redux</h3><h4>Udemy - Stephen Grider</h4><p>Julho 2017</p></li><li><h3>Curso Completo de JavaScript Moderno - ES6</h3><h4>Udemy - Willian Justen</h4><p>Julho 2017</p></li><li><h3>Front End Development</h3><h4>FreeCodeCamp</h4><p>Junho 2017</p></li></ul><h2 class="wow slideInUp animated has-text-centered has-text-left-tablet" data-wow-duration="0.4s" data-wow-delay="0.2s">Contato</h2><ul class="wow slideInUp animated" data-wow-duration="0.4s" data-wow-delay="0.2s"><li><h3><a href="https://www.facebook.com/matheusvbarone" title="Facebook">Facebook</a></h3></li><li><h3><a href="https://github.com/mathvbarone" title="Github">Github</a></h3></li><li><h3><a href="https://www.linkedin.com/in/matheusbarone/" title="Linkedin">Linkedin</a></h3></li><li><h3><a href="https://twitter.com/matheusvbarone" title="Twitter">Twitter</a></h3></li><li><h3><a href="mailto:matheusvbarone@gmail.com" title="Email">Email</a></h3></li></ul></div></div><footer class="footer"><div class="container"><div class="content has-text-centered"> <span class="footer-infos"> © 2017 Matheus Barone | Desenvolvedor Front-end<br> <span>Feito por mim (com a ajuda de algumas xícaras de café).</span> </span> <a class="footer-phone" href="tel:+5513981252789"><i class="fa-lg fa fa-mobile" aria-hidden="true"></i>(13) 98125-2789</a><ul class="redes"><li class="redes-item"> <a class="redes-link" href="https://www.facebook.com/matheusvbarone" target="_blank" title="Facebook"> <i class="fa fa-facebook" aria-hidden="true"></i> </a></li><li class="redes-item"> <a class="redes-link" href="https://github.com/mathvbarone" target="_blank" title="Github"> <i class="fa fa-github" aria-hidden="true"></i> </a></li><li class="redes-item"> <a class="redes-link" href="https://twitter.com/matheusvbarone" target="_blank" title="Twitter"> <i class="fa fa-twitter" aria-hidden="true"></i> </a></li><li class="redes-item"> <a class="redes-link" href="https://www.linkedin.com/in/matheusbarone/" target="_blank" title="Linkedin"> <i class="fa fa-linkedin" aria-hidden="true"></i> </a></li></ul></div></div></footer><script src="https://cdnjs.cloudflare.com/ajax/libs/wow/1.1.2/wow.min.js"></script> <script src="/assets/dist/js/main.min.js"></script> </div>  <a href="#top" class="up-arrow"> <i class="fa fa-chevron-up" aria-hidden="true"></i> </a> </body>

diff --git a/about.html b/about.html
@@ -115,9 +115,24 @@ description: "Minha história como Desenvolvedor Front-end"
             <p>Setembro 2017 (32 horas/aula)</p>
         </li>
         <li>
+            <h3>Criando sites estáticos com Jekyll</h3>
+            <h4>Udemy - Willian Justen</h4>
+            <p>Setembro 2017</p>
+        </li>
+        <li>
+            <h3>Modern React with Redux</h3>
+            <h4>Udemy - Stephen Grider</h4>
+            <p>Julho 2017</p>
+        </li>
+        <li>
+            <h3>Curso Completo de JavaScript Moderno - ES6</h3>
+            <h4>Udemy - Willian Justen</h4>
+            <p>Julho 2017</p>
+        </li>
+        <li>
             <h3>Front End Development</h3>
             <h4>FreeCodeCamp</h4>
-            <p>Agosto 2017</p>
+            <p>Junho 2017</p>
         </li>
     </ul>
 
